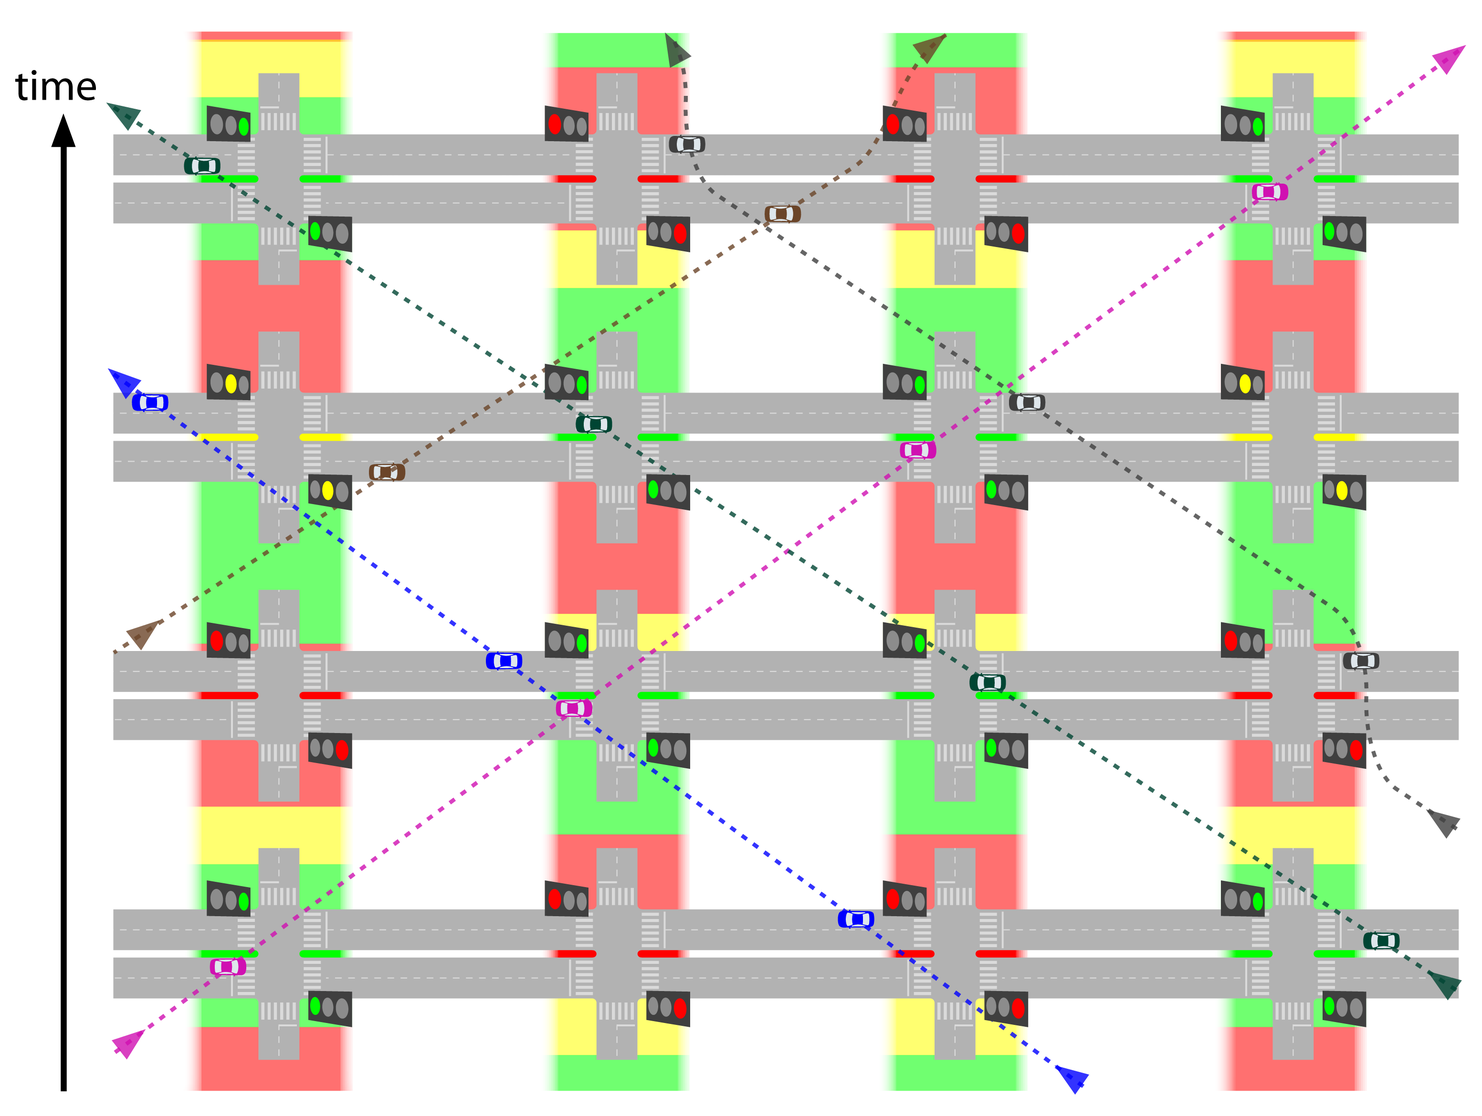
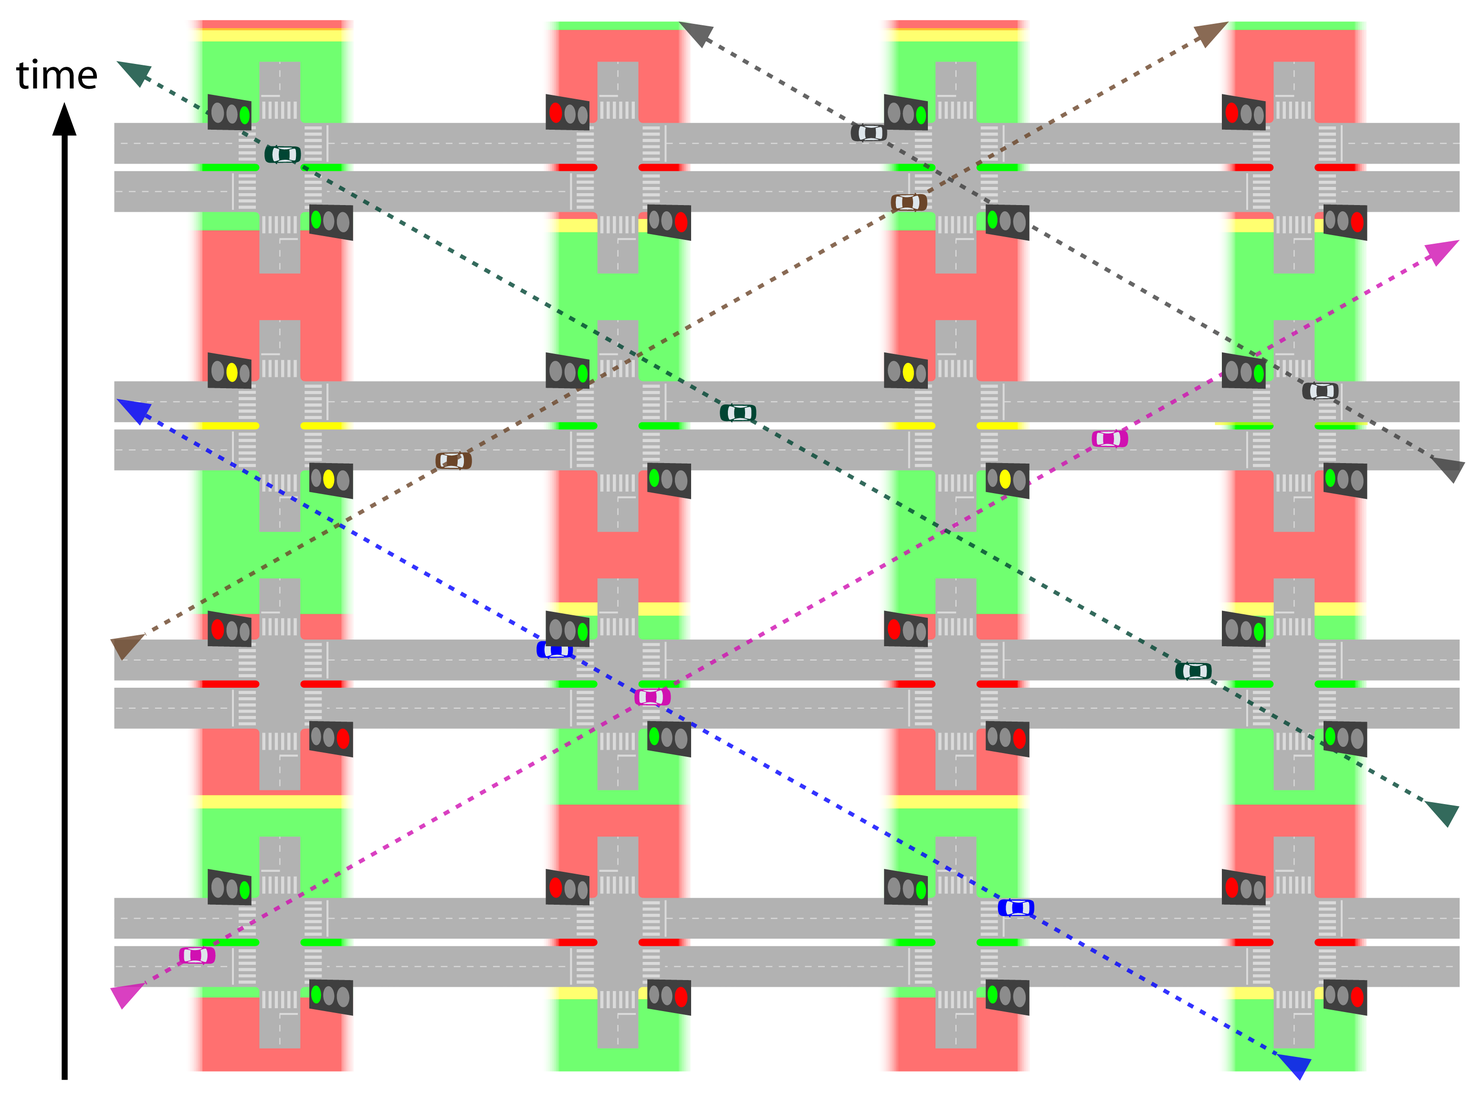
restrict summary

diff --git a/intersection_and_signal_control/restrict-turning.md b/intersection_and_signal_control/restrict-turning.md
@@ -3,72 +3,149 @@
 
 **"Change means movement. Movement means friction. Only in the frictionless vacuum of a non-existent abstract world can movement or change occur without that abrasive friction of conflict."** - Saul Alinsky, political activist, 1909 – 1972
 
+The overall capacity of the intersection is given by the sum of the capacity of each approaching lane. By its turn, the capacity of each approaching lane is given by the sum of saturation flow of the lane multiplied by the sum of relative green times of the phases the lane is active.
 
+No matter how many phases there is on the traffic light, the sum of relative green for all vehicular phases with relative lost time is constant (if there was no pedestrian phases, it would be equal 1). The initial step to programming traffic lights is divide this fixed amount among the phases. With the general assumptions that a movement not allowed during a given phase will block a lane and that the saturation flow per lane is the same (for turning it can be lower): for any given signalized intersection, if a phase is removed (therefore the movements of that phase) and the green time and approaches for the movements of the removed phase are incorporated into another phase the overall capacity of the intersection will necessarily increase.
 
-The overall capacity of the intersection is given by the sum of the capacity of each phase. By its turn, the capacity of each phase will be given by the sum of saturation flow of active approaching lanes on that phase multiplied by the  amount of relative green time of that phase. 
+This is empirically clear for a relatively balanced intersection, a larger number of phases in a traffic light means waiting longer and having a lower share of green time.
 
-No matter how many phases there is on the traffic light, the sum of relative green for all vehicular phases with relative lost time is constant (if there was no pedestrian phases, it would be equal 1). Programming the traffic light is basically dividing this fixed amount among the phases. If the number of phases is increases, the average number of flowing lanes per phase will decrease. Assuming  the saturation flow per lane is the same (for turning it can be lower), decreasing the average number of lanes per phase implies that the higher the number of phases, lower is the overall intersection capacity.
+Of course it is not interesting to create capacity for movements without demand, the following subsections will discuss alternatives to divert traffic in order to increase capacity by eliminating phases. We will see that in some cases, intersection capacity still is increased even if the demand for eliminated movements, namely cross-traffic turns are forced to pass over the intersection twice.
 
-This is empirically clear, a larger number of phases in a traffic light means waiting longer and having a lower share of green time.
+Widening the intersection can be of great assistance, but rarely to the point it can achieve the same benefits of reducing phases. If widening is possible, it shall be done in order to permit reducing the number of phases to two.
 
-Demand saturation level can increase up to 300 percent by increasing an intersection from three phases to four phases. 
+\startbox(narrowing-lanes)
 
+###### Narrowing lanes
+
+Narrowing lanes is a recognized traffic calming measure and a possible way to increase the intersection approach capacity. Even the saturation flow will be reduced in each lane, if one more lane can be squeezed in the stop line, capacity may increase and a better use of space for queueing is promoted.
+
+Places where congestion is a serious issue may already have addressed regulation that allows using narrow measures, if not Public Works guidelines have to be changed.
+
+US Federal Highway Administration suggests that, despite desired lane width of 3.6 metres to maximize flow, right-of-way or pedestrian needs may dictate use of a narrower lane width; lane widths bellow 2.7 metres are not recommended for new design, but in some very constrained retrofit situations on low speed roadways, lane widths as low as 2.4 m should be considered where appropriate (figure \fignum(montgomery-narrow-lane)).
+
+![montgomery-narrow-lane](montgomery-narrow-lane.png "Lanes as narrow as 2.4 metres are an effective way to improve intersection capacity, as in this intersection in Montgomery County, Maryland, US. Image from Google Earth.")
+\endbox
 
 ### Eliminating intersections
 
-Eliminating intersections along the busway seems at first a good idea. For median-side busway this can be provided by simply forbidding cross-traffic, while still allowing flow from transversal street join the mixed-traffic in the corridor to the kerb-side as in figure \fignum(quito-closed-cross).
+The extreme case of reducing phases would let only one phase, which would be equivalent to eliminate the intersection itself, clearly increasing capacity. 
+
+Thus eliminating intersections along the busway seems at first a good idea. For median-side busway this can be provided by simply forbidding cross-traffic, while still allowing flow from transversal street join the mixed-traffic in the corridor to the kerb-side as in figure \fignum(quito-closed-cross) providing access to the corridor.
 
 ![quito-closed-cross](quito-closed-crossing.jpg "Prior to Quito’s Ecovía line, mixed-traffic vehicles were allowed to cross through this intersection as well as negotiate cross-traffic and kerb-side turns. To give priority to public transport, crossing straight  and cross-traffic turn movement have been blocked. Photo by Lloyd Wright.")
 
+The flaw in adopting such extreme solution is that eliminating phases is based on diverting traffic demand for the excluded movements, so its movement can be done with other flows. Eliminating the movement (in this case, crossing the corridor) does not eliminates the demand for it; the movement has to happen somewhere else.
+
 This measure indistinctly applied will reduce accessibility and concentrate demand in few locations (figure \fignum(permeability)). Before eliminating an intersection, it is necessary to understand which alternatives paths the demand will use to cross the corridor and compare the impacts of both situations: if the volumes are low or if the alternatives will not cause more delay to the BRT then it is really a good idea eliminate the intersection.
 
-Eventually, create new intersections, to split conflicting volume of one intersection into several is the needed strategy to increase green times for the BRT.
+Eventually, creating new intersections, to split conflicting volume of one intersection into several is the needed strategy to increase green times for the BRT.
 
 ![permeability](img/permeability.png "Closing intersections reduces accessibility, and may lead to harder to handle interesections. ith no stations, BRT vehicles can benefit from signal coordination. Image courtesy of Elebeta.")
 
-If there are no stations in the surrounding, then BRT vehicles can pass through several intersections at once if a synchronised signal system is used (figure \fignum(BRT-fail-synchro)) 
+If there are no stations in the surrounding, then BRT vehicles can pass through several intersections at once if a synchronised signal system is used (see sections \sectionnumname(coordination) and \sectionnumname(passive-signal-priority)), however, when there is stations between intersections, the BRT vehicle will pass through the green phase at the first intersection and then stop at the station for passenger boarding and alighting. By the time the vehicle resumes movement towards the second intersection the signal phase may have changed to red (figure \fignum(BRT-fail-synchro)).
 
-Sometimes, intersections are too close together in order to optimise the station location relative to the intersection.  In such instances, an assessment has to be made in terms of how important the station location is for boarding and alighting passengers.  If it is an important location, the time savings benefits for pedestrians of locating a station close to this destination must be weighed against the likelihood time lost within the BRT system due to interference between the station and the intersection.   If there are no important destinations in that location, it is better not to locate a station there.  
+![BRT-fail-synchro](img/BRT-fail-synchro.png "Coordination for mixed-traffic does not sot applies to BRT corridor when there is station between intersections. If the green time of green wave has the same magnitude of total dwell time at stations, the effect can be particularly harmfull, as it increases the chances that BRT arrival at intersection be during the red time.")
 
-Mixed traffic vehicles will most likely be able to pass through the two intersections using a synchronised signalisation system.  However, the same may not be true for BRT vehicles.  Instead, the BRT vehicle will pass through the green phase at the first intersection and then stop at the station for passenger boarding and alighting.  By the time the vehicle resumes movement towards the second intersection the signal phase may well have changed to red (Figure 9.48).  Thus, this configuration may lead to considerable delay for public transport passengers.
+But when intersections are too close together in order to optimise the station location relative to them, an assessment has to be made in terms of how important the station location is for boarding and alighting passengers against the detour forced to mixed traffic to close the station and hindering the whole BRT system due to interference between the station and the intersection. There are three options:
 
-Figure 9.48 While mixed traffic vehicles may benefit from a synchronised green phase between two intersections, BRT passengers may encounter the red phase at the second intersection.
+1. Close one of the intersections: generating mixed-traffic detour time and higher cross volumes in other points that may impact the BRT corridor as well;
+2. Transfer or remove the station: generating walking time for BRT users of that station;
+3. Keep station and intersections: generating delay for all passengers in the BRT the pass through the intersection.
 
-Even for normal mixed traffic, having two intersections too close together will sometimes lead to problems.  Vehicles queued at one intersection will back up to the point where vehicles are unable to clear the previous intersection during a green phase.   Equation 9.12 defines the calculation for the distance at which this type of conflict may occur.
+Even for normal mixed traffic, having two intersections too close together will sometimes lead to problems of the same nature of the discussed in sections \sectionnum(Minimum Recommended Distance between the BRT Station and the Intersection from mixed-traffic perspective and \sectionnum(Minimum Recommended Distance between the BRT Station and the Intersection from BRT perspective): vehicles queued at one intersection will back up to the point where vehicles are unable to clear the previous intersection during a green phase.
 
-Equation 9.12 Calculating the distance at which intersection conflicts occur
+Equation \eqnum(dist-inters-mixed-traffic) bellow  defines the calculation for the distance above which this type of conflict shall not occur.
 
-D12 < 3 * Max ( Tg1, Tg2 )
+![eq-dist-inters-mixed-traffic](eq-dist-inters-mixed-traffic.png "D_{i1-i2} >= 3 * Max(T_{green-i1} , T_{green-i2})")
 
-Where:
-
-D12 = Distance between intersection 1 and intersection 2
-
-Tg1 = Green signal time per phase cycle at intersection 1 
-
-Tg2 = Green signal time per phase cycle at intersection 2
+where:
+D_i1-i2 = Distance in meters between intersection 1 and intersection 2;
+T_green-i1 = Green signal time in seconds at intersection 1 
+T_green-i2 = Green signal time in seconds at intersection 2 
 
 A mixed traffic lane can generally handle 1,800 vehicles per hour.  This quantity translates to two vehicles per second (3,600 seconds in an hour).  When vehicles are stopped at a stop light, the average amount of space they take up is 6 metres; this space includes the vehicle and some space between vehicles.  This average vehicle distance means that for each second of time, 3 metres of vehicle-equivalents can be moved through the intersection.  
 
-Box 9.4 provides a sample calculation of the required spacing between two intersections.
+This distance between the intersections guarantees that there is enough space to queueing vehicles, so that it does not happens that the green light is open and there the vehicles are stuck in the upstream traffic light. Proper synchronization can reduce this distance practically to zero.
 
-Box 9.4 Calculating vehicle queues between intersections
+###### Example
 
-The following scenario is outlined in order to determine whether two intersections will result in free-flow operation or in congestion:
+The following scenario is outlined in order to determine whether two intersections apart 100 metres from each other  will result in free-flow operation or in congestion:
 
-D12 = Distance between intersection 1 and intersection 2
-      = 100 metres
+D_i1-i2 = 100 metres;
+T_green-i1 = 40 seconds; 
+T_green-i2 = 30 seconds.
 
-Tg 1 = Green phase time at intersection 1
-       = 40 seconds per phase
+To determine if the distance between these intersections is sufficient,equation  \eqnum(dist-inters-mixed-traffic)can be applied:
 
-Tg 2 = Green phase time at intersection 2
-       = 30 seconds per phase
+100 >= 3 * Max (40,30) 
+100 >= 120  <-- FALSE
 
-To determine if the distance between these intersections is sufficient, Equation 9.12 can be applied:
+Since 100 metres is less than the required 120 metres, there is not enough space between the intersections. 
 
-D12 < 3 * Max ( Tg1, Tg2 )
+In the direction from 1 to 2 it is possible (if 2 is red while 1 is green) that vehicles queuing at 2 will back-up onto the first intersection and the last 20 metres of queue will be trapped before intersection 1. 
 
-100 metres < 3 * 40 = 120 metres
+In the direction from 2 to 1 it is possible (if 1 green start the same time the first vehicle from 2 arrives at the intersection) that the last 10 seconds of green in 1 will be useless, since vehicles stop flowing after 30 seconds  in intersection 2.
 
-Since 100 metres is less than the required 120 metres, there is not enough space between the intersections.  It is therefore possible that vehicles queuing at the second light will back-up onto the first intersection.   Since intersection 1 has a green phase of 40 seconds, some 20 vehicles will clear the intersection.  As each vehicle on average consumes 6 metres of longitudinal space, 120 metres of vehicles will form a queue at the second intersection.   If the intersection is only 100 metres away, then the queue will spill over into the first intersection and disrupt the functioning of the first traffic light.
+
+### Eliminating movements
+
+#### Typical 4-phases-intersection
+
+In a typical that allows all movements (figure \fignum(twelve-moves)), four phases are required; usually each origin has its phase (figure \fignum(typical-four-phases)) but an alternative scheme with one phase for each direction (two ways) straight movement and kerbside-turns and one phase for each direction (two ways) cross-traffic turn may be used as well (figure \fignum(cross-traffic-four-phases)).
+
+![twelve-moves](img/twelve-moves-3ed9.5.png "Possible movements at a typical four-leg intersection. Image courtesy of ITDP.")
+
+![typical-four-phases](img/typical-four-phases-3ed9.7.png "Typical four-phases diagram. Image courtesy of ITDP")
+
+![cross-traffic-four-phases](img/cross-traffic-four-phases-3ed9.6.png "Alternative four-phases diagram. Image courtesy of ITDP.")
+
+The typical configuration has the advantage of not requiring dedicated queue space (queue box) for cross-traffic turns and also allow sharing one lane for cross-turn and straight movements (it can be the most median-side or the second close to it). The scheme with phases for cross-traffic-turn only are interesting when its flows are relatively low and straight movements are intense in both ways (cross-traffic-turn phase will be short and straight will be long)
+
+A composition of the two is also possible, using cross-traffic-turn phase for one direction, and one phase per origin in the other direction (figure \fignum(mix-typical-and-cross-turn)).
+
+![cross-traffic-four-phases](img/cross-traffic-four-phases-3ed9.6.png "Mixed four-phases-diagram. Image courtesy of Elebeta.")
+
+#### Movements conflicting with BRT
+
+When the BRT has to cross a typical four-staged intersection, the main concern is to increase the green time for the corridor direction. Eliminating phases are likely to be very effective in doing so, but it is important to keep in mind that it is not the primary goal. Eliminate phases in a way that green time is not increased for the BRT approaches will improve only mixed-traffic performance.
+
+To eliminate the phases we must focus in the **movements that conflict with the BRT** (figure \fignum(conflicting-movements))and try to reroute them in a form such that they can cross the corridor in one phase and briefly, i.e., providing width to the crossing movements approaches. Providing width to parallel movements is important to improve general traffic, which is also desirable, but not paramount.
+
+For the reminder of the section we will assume that the bus way is median-side aligned and that the busway cross the intersection straight; if the busway is kerb-sided and/or it is turning between perpendicular roads, the same reasoning can be followed and the alternatives for detour mixed-traffic movements shall be considered, but in a different and appropriated way.
+
+![conflicting-movements](img/conflicting-movements.png "With the insertion of BRT (red) conflicting movements(in blue) shall be addressed. Image courtesy of Elebeta.")
+
+With a median-side BRT, typical four-phase stage can no longer be applied; once it will conflict for the cross-traffic turn, alternative cross-traffic turn stage has to be present in BRT direction (figures \fignum(four-phases-with-brt-one) and \fignum(four-phases-with-brt2)).
+
+![four-phases-with-brt-one](img/four-phases-with-brt-one.png "With the insertion of BRT (red) in a four-stage signal, cross-traffic-turn from the same direction need to have own phase. Image courtesy of Elebeta.")
+
+![four-phases-with-brt-two](img/four-phases-with-brt-one.png "With the insertion of BRT (red) the phases from other direction can still be one for each origin leg. Image courtesy of Elebeta.")
+
+#### Diverting kerb-side-turns
+
+Moving kerb-side turns away from the intersection is usually simple if parallel streets are available (figure \fignum(detour-kerb-side). Detouring the kerb-side flow from the crossing street is particularly interesting because it can leave the whole approach width available to the conflict movements, reducing the crossing time (red for the corridor) in the same proportion this kerb-side-turn flow is to the total flow, even if four-phases are in use (figure \fignum(shorter-four-phase)).
+
+![detour-kerb-side](img/detour-kerb-sid.png "Kerb-side-turn detour can leave width in the main intersection available to crossing flows. Image courtesy of Elebeta.")
+
+![shorter-four-phase](img/shorter-four-phase.png "Without kerb-side-turn, cross street phases will be shorter. Image courtesy of Elebeta.")
+
+#### Diverting cross-side-turns
+
+###### Loop
+
+###### Kerb-side and u-turn
+
+###### U-turn and kerb-side
+
+###### Previous turn
+
+(displaced left-turn)
+
+
+#### Diverting straight flow
+
+The use of the imediate parallel street in one-way as an auxiliary street is an effective alternative for mixed-traffic. Even a narrow two-way street transformed into one-way street with parking prohibition in one-side can represent a three lane parallel corridor with larger capacity than the main corridor.r
+
+
+It a common situation to main corridors, to  that auxiliary streets para
+

diff --git a/intersection_and_signal_control/signal-priority.md b/intersection_and_signal_control/signal-priority.md
@@ -4,7 +4,7 @@
 
 Signal priority for BRT vehicles is the adjustment of traffic signals to give priority to a corridor with a BRT system over a corridor without one, and to give priority to the BRT system over mixed traffic within the same corridor. Once equipment and techniques were developed to do this in a responsive way after the detection of BRT vehicles approaching an intersection, the expression "active signal priority" became the way to indicate this advance. Since then "passive signal priority" is used to let clear that such detection technology is not being applied.
 
-![bus-only-traffic-light](img/signal-priority-signal.jpg "Active signal priority for BRT and restricted turning movements for mixed traffic vehicles can do much to improve public transport travel times. Photo by Lloyd Wright.")
+![bus-only-traffic-light](img/active-priority-signal.jpg "Active signal priority for BRT and restricted turning movements for mixed traffic vehicles can do much to improve public transport travel times. Photo by Lloyd Wright.")
 
 ### Passive signal priority
 
@@ -16,11 +16,11 @@ Without special consideration for BRT, the optimal phase times in a signalized i
 
 In applying traffic signal priority to a BRT corridor, is usual that cycle time become as low as 60 seconds and do not rise above 120 seconds, except at major intersections or during peak hours in order to allow larger relative green time for the BRT corridor; the relative green time faced by the BRT system should be extended above 50 percent, if possible. It is typical for the BRT green time to be 30 seconds in a 60 second cycle or 40 to 60 seconds in a 120 second cycle. 
 
-Synchronisation of green signal phases between intersections (or "green wave") is not common with BRT systems because BRT travel times are not regular being subject to variable dwell time at stations (specially when multiple route services use the same corridor or frequencies are high). If BRT vehicle speeds are reasonably predictable or controlled it is be possible to coordinate traffic lights in a BRT corridor. This practice is used in Ottawa (Levinson et al., 2003b).
+Synchronisation of green signal phases between intersections (or "green wave", see section \sectionnum (coordination)  is not common with BRT systems because BRT travel times are not regular being subject to variable dwell time at stations (specially when multiple route services use the same corridor or frequencies are high). If BRT vehicle speeds are reasonably predictable or controlled it is be possible to coordinate traffic lights in a BRT corridor. This practice is used in Ottawa (Levinson et al., 2003b). If boarding and alighting times are somewhat regular and of the same magnitude of the green time of the green wave planned for mixed-traffic, coordination will lead to the opposite effect, as every time the BRT vehicle dwell in a station it is likely to reach the next traffic light in the begin of the red light.
 
 ### Active signal priority
 
-Active, or real time priority techniques, change the actual traffic signal phasing when a BRT vehicle is observed to be approaching the intersection (Figure 9.55).
+Active, or real time priority techniques, change the actual traffic signal phasing when a BRT vehicle is observed to be approaching the intersection.
 
 The normal vehicle identification mechanism is to have a transponder detect the BRT vehicle prior to its arrival at the stop line.  If the BRT vehicle is detected during the green phase, and the green phase is nearing the yellow phase, the green phase is extended.  If the detection occurs during the red or the yellow interval, the green time is recalled in advance of normal time.   Some general guidelines for applying phase extension or phase shortening include:
 
